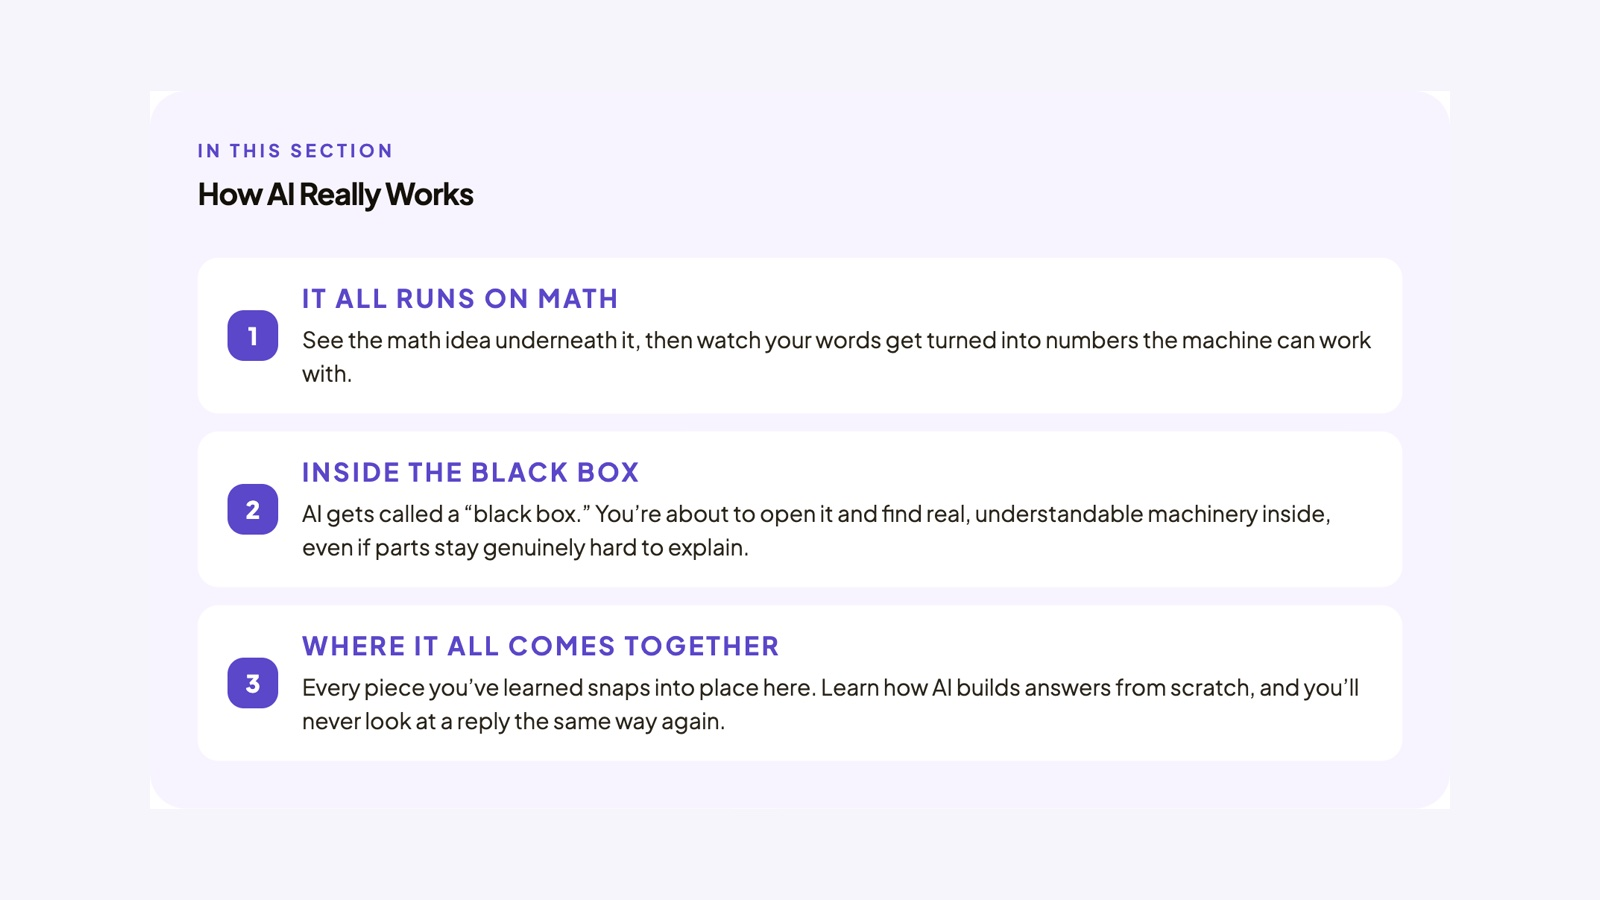
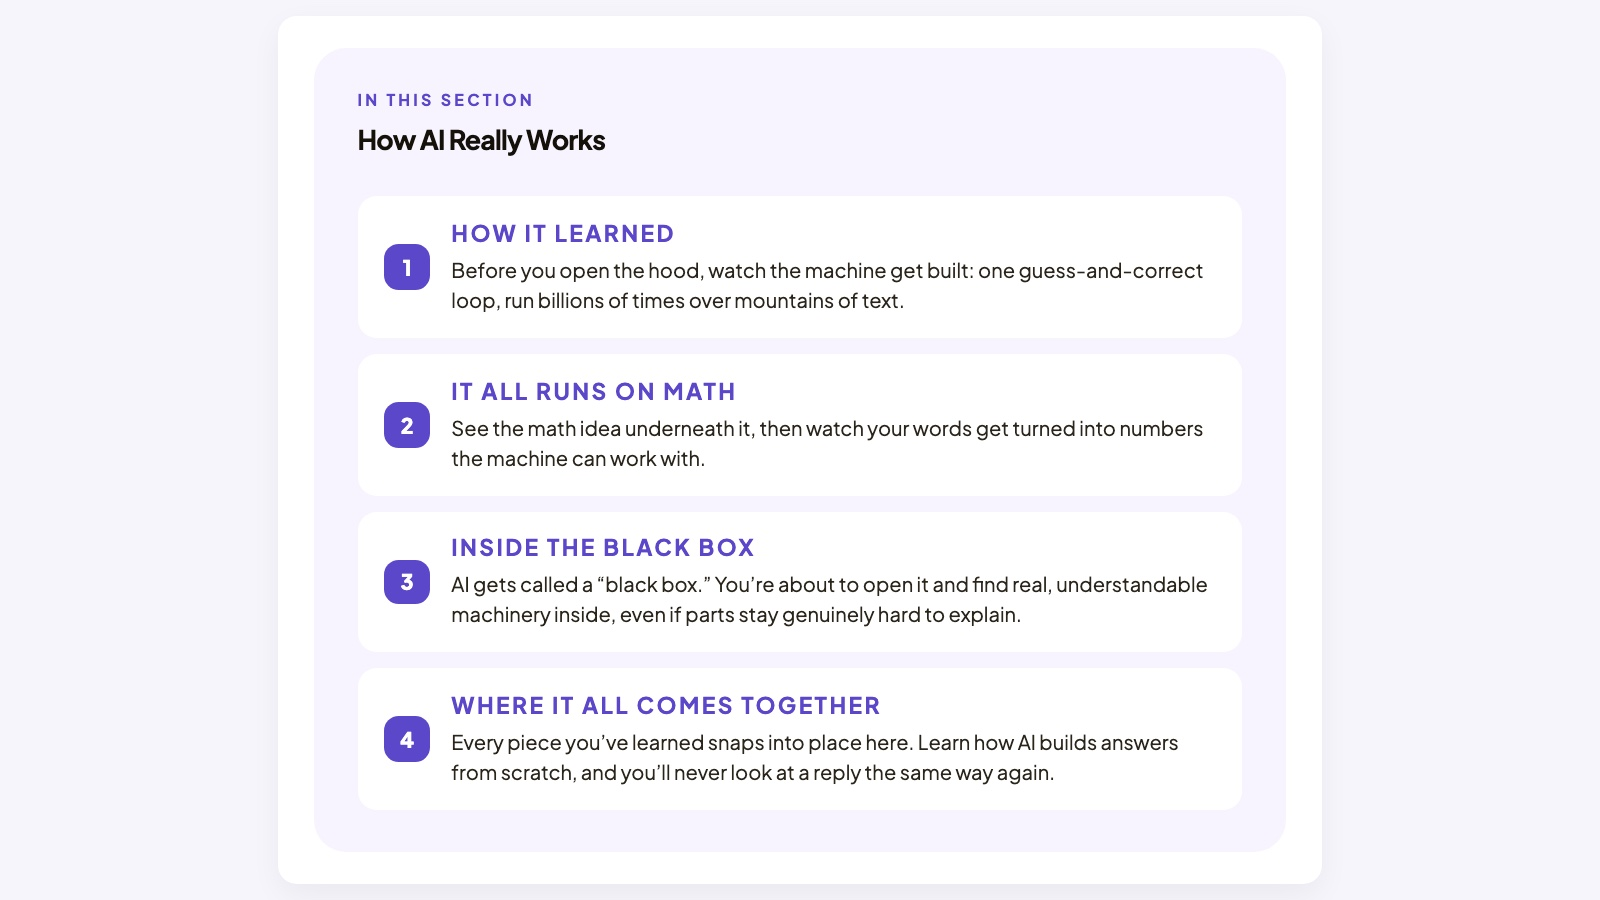
Opener-Understand challenger shipped: 1:53 cut with the four-part map
Swap the sitting 3:06 opener (stale three-part section map) for the Jul 9
challenger built against the resequenced four-part structure (How It
Learned first). Both hard gates pass; map board reproduced verbatim with
narration-synced walk. Known drift: close pill absent, sticky paraphrased
(STEP-BY-STEP). Duration pill 3 min -> 2 min; run sources retired to
archive/opener-understand/.

Changed region(s): [[0.125, 0.3422, 0.8438, 0.8711], [0.125, 0.0933, 0.75, 0.3422]]

diff --git a/index.html b/index.html
@@ -251,7 +251,7 @@ const LESSON_VIDEOS = {
   prompt: { src: "videos/context-window.mp4", duration: "3 min", title: "What the model can see when it answers you." },
   evaluating: { src: "videos/evaluate-the-results.mp4", duration: "4 min", title: "Five steps to know which answers deserve the dig." },
   critical: { src: "videos/critical-thinking.mp4", duration: "3 min", title: "Five questions that keep the thinking yours." },
-  openerfoundations: { src: "videos/opener-understand.mp4", duration: "3 min", title: "Not magic, not a person, not normal software. Time to open the hood.", cta: "After watching, continue below to see where this section takes you." },
+  openerfoundations: { src: "videos/opener-understand.mp4", duration: "2 min", title: "Not magic, not a person, not normal software. Time to open the hood.", cta: "After watching, continue below to see where this section takes you." },
   aiismath: { src: "videos/ai-is-math.mp4", duration: "3 min", title: "Two ideas from probability, plus the loop that makes language." },
   tokens: { src: "videos/tokens.mp4", duration: "3 min", title: "How your words become chunks the model can work with." },
   embeddings: { src: "videos/embeddings.mp4", duration: "4 min", title: "How a token's meaning becomes a row of numbers." }

diff --git a/archive/opener-understand/Opener-Understand.md b/archive/opener-understand/Opener-Understand.md
@@ -24,17 +24,23 @@ How AI Really Works
 
 1
 
+## HOW IT LEARNED
+
+Before you open the hood, watch the machine get built: one guess-and-correct loop, run billions of times over mountains of text.
+
+2
+
 ## IT ALL RUNS ON MATH
 
 See the math idea underneath it, then watch your words get turned into numbers the machine can work with.
 
-2
+3
 
 ## INSIDE THE BLACK BOX
 
 AI gets called a “black box.” You’re about to open it and find real, understandable machinery inside, even if parts stay genuinely hard to explain.
 
-3
+4
 
 ## WHERE IT ALL COMES TOGETHER
 